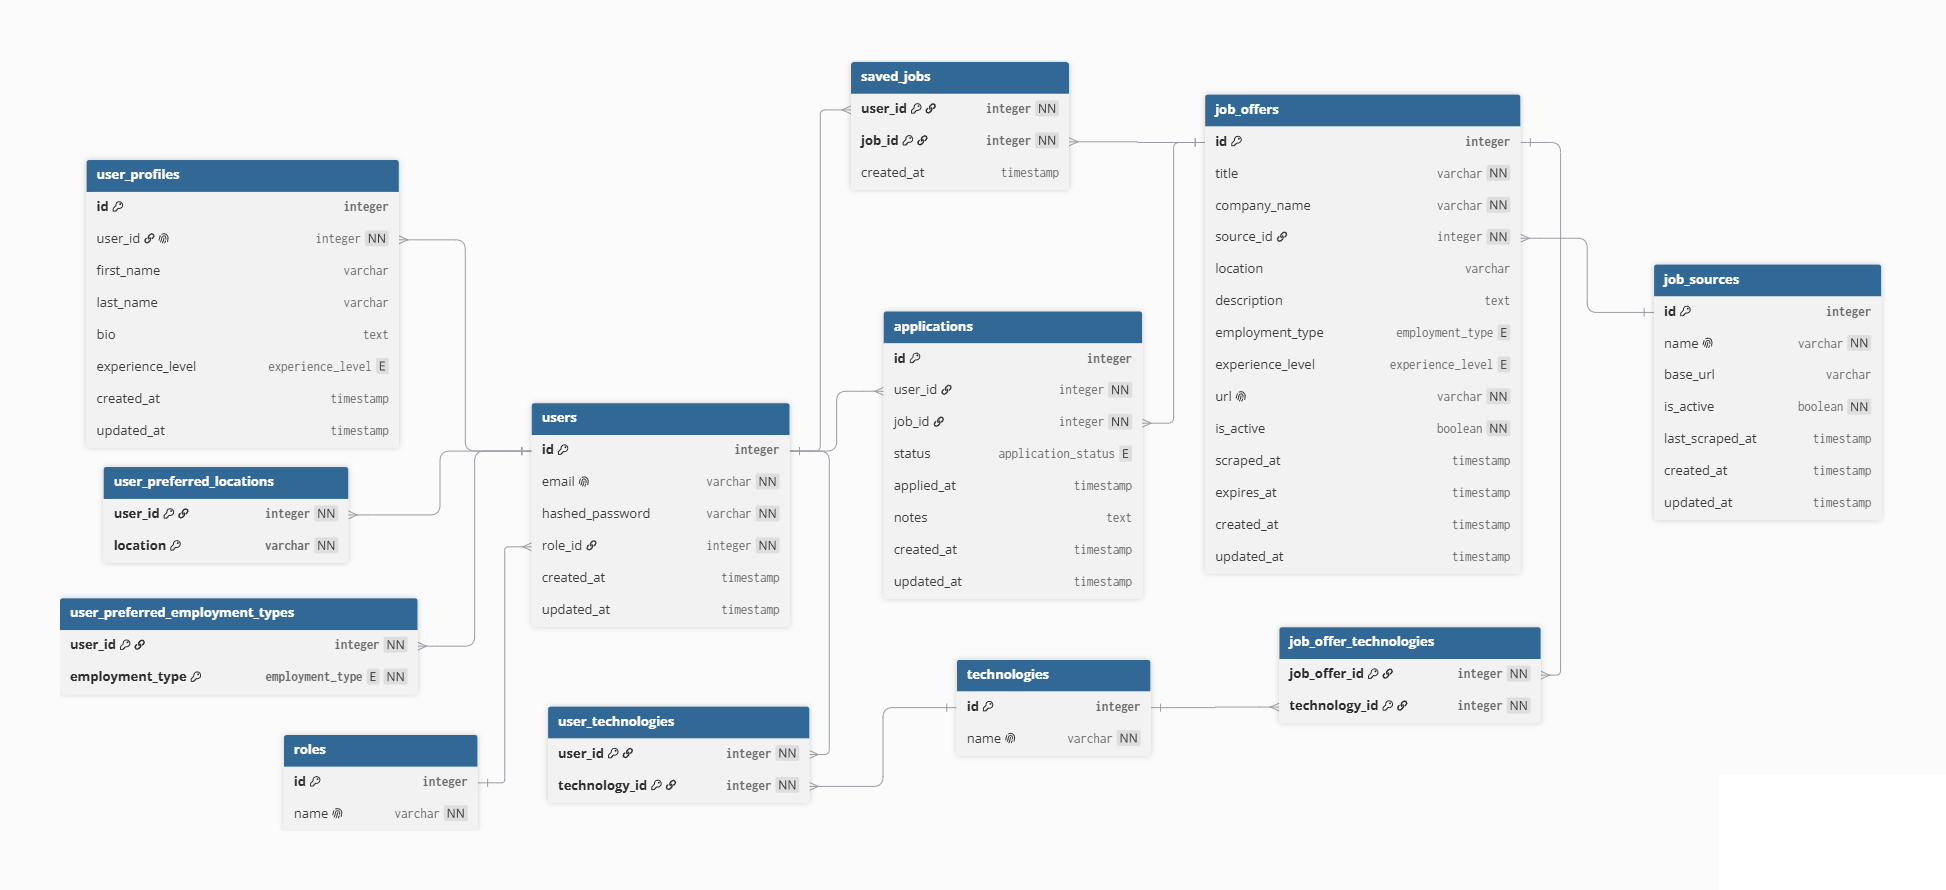
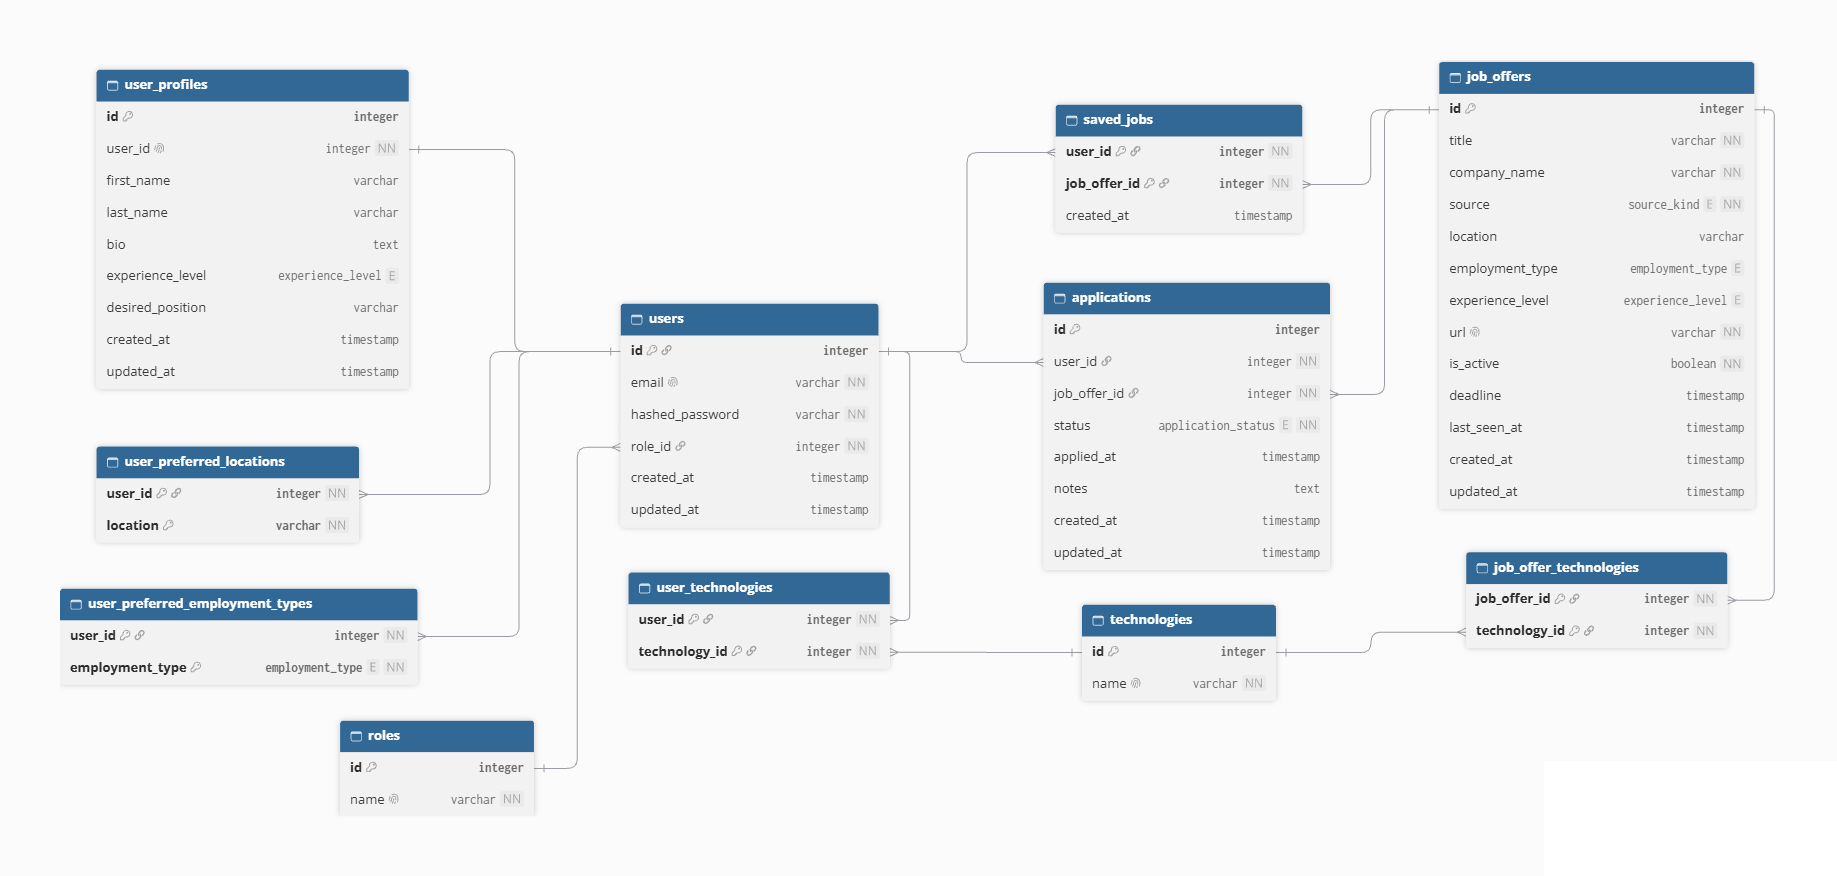
docs: update database schema after dropping scraping (#34)

diff --git a/docs/database.md b/docs/database.md
@@ -2,24 +2,26 @@
 
 ![ER diagram of the database schema](./img/db-schema.png)
 
-This document describes the initial relational database schema for the job offer monitoring and analysis application. It covers the core functionality: user management, job offer storage, technology tagging, and application tracking.
+This document describes the relational database schema for the job offer discovery and analysis application. It covers the core functionality: user management, user profiles and preferences, job offer storage, technology tagging, saved jobs and application tracking.
 
-> **Note:** Tables related to the AI assistant module (e.g. query history, generated summaries, match scores) are **not included yet**. These will be added in a later development phase once the AI module is designed and integrated. This document will be updated accordingly at that point.
+Job offers are **not bulk-scraped** from job boards. They reach the application in three ways: a Tavily web search built from the user's profile, the "Send to JobRadar" browser button, or a manual import of a link. Only the offer's basic facts (link, title, company, location, deadline and source) are stored. The full offer text is not stored; it is fetched only when an offer is analysed.
+
+> **Note:** Tables related to the AI assistant module (e.g. query history, match results) and to search logging are **not included yet**. They will be added together with the features that use them, and this document will be updated at that point.
 
 ## Overview
 
 The schema is organized around five functional areas:
 
 1. **Access control** — users, roles, and user profiles
-2. **Job offer data** — job offers, job sources, and technologies
-3. **User preferences** — skills and standing filter preferences used for matching
+2. **User preferences** — skills and standing filter preferences used for search and matching
+3. **Job offer data** — job offers and technologies
 4. **User activity** — saved jobs and applications
-5. *(Planned)* **AI assistant module** — to be added later
+5. *(Planned)* **AI assistant module and search logging** — to be added later
 
 ## Enums
 
 ### `employment_type`
-Describes the type of employment contract associated with a job offer.
+Describes the type of employment contract associated with a job offer or preferred by a user.
 
 | Value | Description |
 |---|---|
@@ -40,12 +42,20 @@ Describes the seniority level of a job offer or a user's declared experience.
 | `senior` | Senior |
 | `lead` | Lead / management-adjacent |
 
+### `source_kind`
+Describes how a job offer reached the application.
+
+| Value | Description |
+|---|---|
+| `search` | Found by a Tavily web search built from the user's profile |
+| `browser` | Sent from the "Send to JobRadar" browser button |
+| `manual` | Imported by the user from a pasted link |
+
 ### `application_status`
 Tracks the state of a user's application to a given job offer.
 
 | Value | Description |
 |---|---|
-| `saved` | Offer saved but not yet applied to |
 | `applied` | Application submitted |
 | `interview` | In the interview process |
 | `rejected` | Application rejected |
@@ -69,7 +79,7 @@ Application user accounts, including authentication data.
 | `id` | integer | Primary key |
 | `email` | varchar | Unique, not null |
 | `hashed_password` | varchar | Not null |
-| `role_id` | integer | FK → `roles.id` |
+| `role_id` | integer | FK → `roles.id`, not null |
 | `created_at` | timestamp | |
 | `updated_at` | timestamp | |
 
@@ -79,16 +89,17 @@ Extended profile information for a user, one-to-one with `users`.
 | Column | Type | Notes |
 |---|---|---|
 | `id` | integer | Primary key |
-| `user_id` | integer | FK → `users.id`, unique |
+| `user_id` | integer | FK → `users.id`, unique, not null |
 | `first_name` | varchar | |
 | `last_name` | varchar | |
 | `bio` | text | |
 | `experience_level` | experience_level | |
+| `desired_position` | varchar | The role the user is looking for (e.g. "backend developer"), used to build search queries |
 | `created_at` | timestamp | |
 | `updated_at` | timestamp | |
 
 ### `user_preferred_locations`
-Standing location preferences used for filtering and future matching features. A user may have multiple preferred locations.
+Standing location preferences used for search and filtering. A user may have multiple preferred locations. `Remote` is a valid value, which is how a user expresses a preference for remote work.
 
 | Column | Type | Notes |
 |---|---|---|
@@ -96,55 +107,49 @@ Standing location preferences used for filtering and future matching features. A
 | `location` | varchar | Free-text, part of composite PK |
 
 ### `user_preferred_employment_types`
-Standing employment type preferences used for filtering and future matching features. A user may prefer more than one employment type.
+Standing employment type preferences used for search and filtering. A user may prefer more than one employment type.
 
 | Column | Type | Notes |
 |---|---|---|
 | `user_id` | integer | FK → `users.id`, part of composite PK |
 | `employment_type` | employment_type | Part of composite PK |
 
-### `job_sources`
-External sources (e.g. job boards) from which offers are imported or scraped.
+### `technologies`
+A flat vocabulary of technologies/skills (e.g. "React", "Python", "Docker") referenced by both job offers and user profiles. New entries are created automatically when a user or an offer mentions a technology that is not in the table yet.
 
 | Column | Type | Notes |
 |---|---|---|
 | `id` | integer | Primary key |
 | `name` | varchar | Unique, not null |
-| `base_url` | varchar | |
-| `is_active` | boolean | Not null, default `true` |
-| `last_scraped_at` | timestamp | Used by the admin panel / scraper scheduler |
-| `created_at` | timestamp | |
-| `updated_at` | timestamp | |
+
+### `user_technologies`
+Many-to-many mapping between users and the technologies they know, used for search and matching.
+
+| Column | Type | Notes |
+|---|---|---|
+| `user_id` | integer | FK → `users.id`, part of composite PK |
+| `technology_id` | integer | FK → `technologies.id`, part of composite PK |
 
 ### `job_offers`
-Core table storing individual job postings imported from external sources.
+Core table storing the basic facts of individual job postings. The full offer text is intentionally not stored.
 
 | Column | Type | Notes |
 |---|---|---|
 | `id` | integer | Primary key |
 | `title` | varchar | Not null |
 | `company_name` | varchar | Not null |
-| `source_id` | integer | FK → `job_sources.id` |
+| `source` | source_kind | Not null — how the offer reached the application |
 | `location` | varchar | Free-text |
-| `description` | text | |
 | `employment_type` | employment_type | |
 | `experience_level` | experience_level | |
-| `url` | varchar | Not null, unique — used as the dedup key when re-importing |
+| `url` | varchar | Not null, unique — the link to the original offer, used as the dedup key |
 | `is_active` | boolean | Not null, default `true` — marks whether the offer is still live |
-| `scraped_at` | timestamp | When the offer was last fetched/refreshed |
-| `expires_at` | timestamp | Optional expiry date, if known |
+| `deadline` | timestamp | Application deadline, if known |
+| `last_seen_at` | timestamp | When a search or import last found this offer |
 | `created_at` | timestamp | |
 | `updated_at` | timestamp | |
 
 Indexed on `location`, `employment_type`, `experience_level`, and `is_active` to support filtering.
-
-### `technologies`
-A flat vocabulary of technologies/skills (e.g. "React", "Python", "Docker") referenced by both job offers and user profiles.
-
-| Column | Type | Notes |
-|---|---|---|
-| `id` | integer | Primary key |
-| `name` | varchar | Unique, not null |
 
 ### `job_offer_technologies`
 Many-to-many mapping between job offers and the technologies they require.
@@ -154,16 +159,8 @@ Many-to-many mapping between job offers and the technologies they require.
 | `job_offer_id` | integer | FK → `job_offers.id`, part of composite PK |
 | `technology_id` | integer | FK → `technologies.id`, part of composite PK |
 
-### `user_technologies`
-Many-to-many mapping between users and the technologies they know, used for matching and filtering.
-
-| Column | Type | Notes |
-|---|---|---|
-| `user_id` | integer | FK → `users.id`, part of composite PK |
-| `technology_id` | integer | FK → `technologies.id`, part of composite PK |
-
 ### `saved_jobs`
-Tracks which job offers a user has bookmarked for later.
+Tracks which job offers a user has bookmarked for later. Saving is independent of applying: an offer can be saved, applied to, or both.
 
 | Column | Type | Notes |
 |---|---|---|
@@ -177,13 +174,15 @@ Tracks a user's application to a specific job offer, including status and notes.
 | Column | Type | Notes |
 |---|---|---|
 | `id` | integer | Primary key |
-| `user_id` | integer | FK → `users.id` |
-| `job_offer_id` | integer | FK → `job_offers.id` |
-| `status` | application_status | |
+| `user_id` | integer | FK → `users.id`, not null |
+| `job_offer_id` | integer | FK → `job_offers.id`, not null |
+| `status` | application_status | Not null, default `applied` |
 | `applied_at` | timestamp | |
 | `notes` | text | |
 | `created_at` | timestamp | |
 | `updated_at` | timestamp | |
+
+Unique on (`user_id`, `job_offer_id`): a user has at most one application per offer.
 
 ## Relationships Summary
 
@@ -191,23 +190,26 @@ Tracks a user's application to a specific job offer, including status and notes.
 - `user_profiles.user_id` → `users.id` (1:1)
 - `user_preferred_locations.user_id` → `users.id` (1:N)
 - `user_preferred_employment_types.user_id` → `users.id` (1:N)
-- `job_offers.source_id` → `job_sources.id`
-- `job_offer_technologies` links `job_offers` ↔ `technologies` (M:N)
 - `user_technologies` links `users` ↔ `technologies` (M:N)
+- `job_offer_technologies` links `job_offers` ↔ `technologies` (M:N)
 - `saved_jobs` links `users` ↔ `job_offers` (M:N)
-- `applications` links `users` ↔ `job_offers` (1 application row per user–job pair, extended with status/notes)
+- `applications` links `users` ↔ `job_offers` (1 application row per user–offer pair, extended with status/notes)
+
+Deleting a user deletes their profile, preferences, skills links, saved jobs and applications. Deleting a user never deletes rows in `technologies`.
 
 ## Design Notes
 
-- **Deduplication of imported offers** relies on the `url` uniqueness constraint on `job_offers`. When the scraper re-encounters an existing URL, the corresponding row should be updated (`scraped_at`, `is_active`) rather than duplicated.
-- **Location and preference matching** currently use free-text fields rather than a normalized `locations` table. Scraped location strings vary significantly between sources (e.g. "Warszawa" vs "Warsaw, PL" vs "Remote/Warsaw"), so normalization/geocoding is left as a possible future improvement rather than solved at this stage.
-- **`technologies` and `roles`** are treated as static lookup tables. `created_at` was intentionally omitted from `technologies` since no current feature depends on knowing when a technology entry was created; this may be revisited if technology "trend over time" analysis is added later.
+- **No bulk scraping.** Offers are found through Tavily search or sent by the user (browser button, manual import), and only their basic facts are stored. This avoids copying job boards' content, which could conflict with their terms of use and database rights. The offer page is fetched only when the offer is analysed.
+- **No `job_sources` table.** There are only three fixed ways an offer can arrive, so the `source_kind` enum on `job_offers` replaces a lookup table. The job board an offer comes from can be read from its `url` domain.
+- **Deduplication of offers** relies on the `url` uniqueness constraint on `job_offers`. When a search or import finds an existing URL again, the row is updated (`last_seen_at`, `is_active`) rather than duplicated.
+- **Saved jobs and applications are separate.** Saving is a bookmark with no status; an application has a life cycle. Keeping them in two tables means each fact is stored in one place, and `application_status` has no `saved` value.
+- **Location and preference matching** use free-text fields rather than a normalized `locations` table. Location strings vary significantly between job boards (e.g. "Warszawa" vs "Warsaw, PL" vs "Remote/Warsaw"), so normalization/geocoding is left as a possible future improvement.
+- **`technologies` and `roles`** are treated as lookup tables. `created_at` was intentionally omitted from `technologies` since no current feature depends on knowing when a technology entry was created.
 
 ## Planned Additions (Future Work)
 
-As development progresses, the following will be introduced to support the AI assistant module:
+The following will be added together with the features that need them:
 
-- A table to store AI assistant query history (per user, per job offer), including the query type (e.g. summary, requirements extraction, match scoring), the context sent to the model, and the generated response.
+- **AI assistant module:** a table storing AI query history (per user, per job offer: query type, prompt version, the anonymised context sent to the model and the validated response), and a table storing match results per user and offer (match label, score, "why it fits" and "watch out").
+- **Search logging:** a table of Tavily search runs, if needed for per-user search limits, caching and usage statistics.
 - Possible extensions to `job_offer_technologies` (e.g. required vs. nice-to-have flags) if AI-driven matching requires finer-grained weighting.
-
-These will be documented separately once the AI module's design is finalized.
